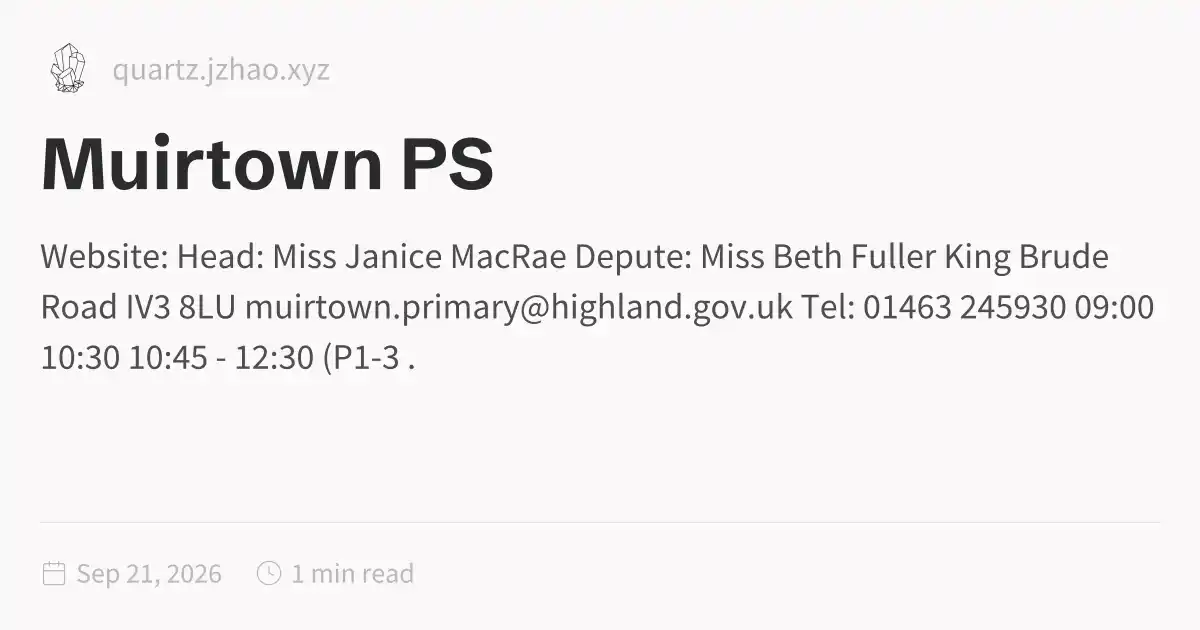
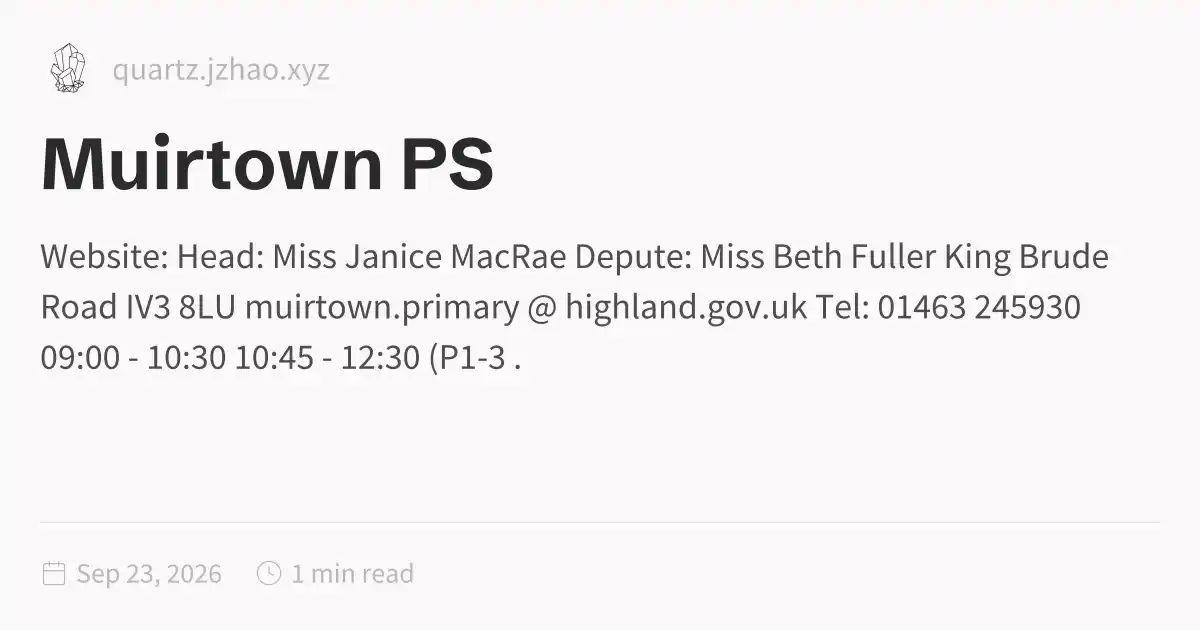
Add files via upload
23 Sep 2026

Changed region(s): [[0.4317, 0.4524, 0.9558, 0.5127], [0.0308, 0.5429, 0.4317, 0.6032]]

diff --git a/charleston-academy/muirtown-ps.html b/charleston-academy/muirtown-ps.html
@@ -1,9 +1,9 @@
 <!DOCTYPE html>
-<html lang="en" dir="ltr"><head><title>Muirtown PS</title><meta charset="utf-8"/><link rel="preload" href="../index.css" as="style"/><link rel="preload" href="../prescript.js" as="script"/><link rel="preconnect" href="https://fonts.googleapis.com"/><link rel="preconnect" href="https://fonts.gstatic.com"/><link rel="stylesheet" href="https://fonts.googleapis.com/css2?family=Schibsted Grotesk:wght@400;700&amp;family=Source Sans Pro:ital,wght@0,400;0,600;1,400;1,600&amp;family=IBM Plex Mono:wght@400;600&amp;display=swap"/><link rel="preconnect" href="https://cdnjs.cloudflare.com" crossorigin="anonymous"/><meta name="viewport" content="width=device-width, initial-scale=1.0"/><meta name="og:site_name" content="BikeMan.uk"/><meta property="og:title" content="Muirtown PS"/><meta property="og:type" content="website"/><meta name="twitter:card" content="summary_large_image"/><meta name="twitter:title" content="Muirtown PS"/><meta name="twitter:description" content="Website: Head: Miss Janice MacRae Depute: Miss Beth Fuller King Brude Road IV3 8LU muirtown.primary@highland.gov.uk Tel: 01463 245930 09:00 - 10:30 10:45 - 12:30 (P1-3 ."/><meta property="og:description" content="Website: Head: Miss Janice MacRae Depute: Miss Beth Fuller King Brude Road IV3 8LU muirtown.primary@highland.gov.uk Tel: 01463 245930 09:00 - 10:30 10:45 - 12:30 (P1-3 ."/><meta property="og:image:alt" content="Website: Head: Miss Janice MacRae Depute: Miss Beth Fuller King Brude Road IV3 8LU muirtown.primary@highland.gov.uk Tel: 01463 245930 09:00 - 10:30 10:45 - 12:30 (P1-3 ."/><meta property="twitter:domain" content="quartz.jzhao.xyz"/><meta property="og:url" content="https://quartz.jzhao.xyz/charleston-academy/muirtown-ps"/><meta property="twitter:url" content="https://quartz.jzhao.xyz/charleston-academy/muirtown-ps"/><link rel="icon" href="../static/icon.png"/><meta name="description" content="Website: Head: Miss Janice MacRae Depute: Miss Beth Fuller King Brude Road IV3 8LU muirtown.primary@highland.gov.uk Tel: 01463 245930 09:00 - 10:30 10:45 - 12:30 (P1-3 ."/><meta name="generator" content="Quartz"/><link href="../index.css" rel="stylesheet" type="text/css" data-persist="true"/><link href="../component-735924e0.css" rel="stylesheet" type="text/css" data-persist="true"/><link href="../component-589c1cea.css" rel="stylesheet" type="text/css" data-persist="true"/><link href="../component-bbc3f7c0.css" rel="stylesheet" type="text/css" data-persist="true"/><link href="../component-2911f5d1.css" rel="stylesheet" type="text/css" data-persist="true"/><link href="../component-e427079e.css" rel="stylesheet" type="text/css" data-persist="true"/><link href="../component-53b25b2b.css" rel="stylesheet" type="text/css" data-persist="true"/><link href="../component-c93c6a44.css" rel="stylesheet" type="text/css" data-persist="true"/><link href="../component-8a06014f.css" rel="stylesheet" type="text/css" data-persist="true"/><link href="../component-77d6a441.css" rel="stylesheet" type="text/css" data-persist="true"/><link href="../component-6ee21cee.css" rel="stylesheet" type="text/css" data-persist="true"/><link href="../component-1ea6ad18.css" rel="stylesheet" type="text/css" data-persist="true"/><link href="../component-788c9ca3.css" rel="stylesheet" type="text/css" data-persist="true"/><link href="../component-642859cd.css" rel="stylesheet" type="text/css" data-persist="true"/><link href="../component-4abc06bd.css" rel="stylesheet" type="text/css" data-persist="true"/><link href="../component-274a3dfe.css" rel="stylesheet" type="text/css" data-persist="true"/><link href="../component-94cb6c84.css" rel="stylesheet" type="text/css" data-persist="true"/><link href="../component-58d5ff56.css" rel="stylesheet" type="text/css" data-persist="true"/><link href="../component-7262b5a7.css" rel="stylesheet" type="text/css" data-persist="true"/><link href="../static/resource-style-a5c806d2.css" rel="stylesheet" type="text/css" data-persist="true"/><link href="../static/resource-style-6bd36952.css" rel="stylesheet" type="text/css" data-persist="true"/><link href="../static/resource-style-9857b007.css" rel="stylesheet" type="text/css" data-persist="true"/><link href="../static/resource-style-d3a1a224.css" rel="stylesheet" type="text/css" data-persist="true"/><link href="https://cdn.jsdelivr.net/npm/katex@0.16.11/dist/katex.min.css" rel="stylesheet" type="text/css" data-persist="true"/><script src="../prescript.js" type="application/javascript" data-persist="true"></script><script type="application/javascript" data-persist="true">const fetchData = fetch("../static/contentIndex.json").then(data => data.json())</script><link rel="preconnect" href="https://fonts.googleapis.com"/><link rel="preconnect" href="https://fonts.gstatic.com" crossorigin="anonymous"/><link rel="stylesheet" href="https://fonts.googleapis.com/css2?family=Schibsted%20Grotesk%3Awght%40400%3B700&amp;family=Source%20Sans%20Pro%3Aital%2Cwght%400%2C400%3B0%2C600%3B1%2C400%3B1%2C600&amp;family=IBM%20Plex%20Mono%3Awght%40400%3B600&amp;display=swap"/><meta property="og:image:width" content="1200"/><meta property="og:image:height" content="630"/><meta property="og:image" content="https://quartz.jzhao.xyz/charleston-academy/muirtown-ps-og-image.webp"/><meta property="og:image:url" content="https://quartz.jzhao.xyz/charleston-academy/muirtown-ps-og-image.webp"/><meta name="twitter:image" content="https://quartz.jzhao.xyz/charleston-academy/muirtown-ps-og-image.webp"/><meta property="og:image:type" content="image/webp"/></head><body data-slug="charleston-academy/muirtown-ps" data-basepath><div id="quartz-root" class="page" data-frame="default"><div id="quartz-body"><div class="left sidebar"><h2 class="page-title"><a href="..">BikeMan.uk</a></h2><div class="mobile-only"><div class="spacer"></div></div><div class="flex-component" style="flex-direction: row; flex-wrap: nowrap; gap: 0.5rem;"><div style="flex-grow: 1; flex-shrink: 1; flex-basis: auto; order: 0; align-self: center; justify-self: center;"><div class="search"><button class="search-button" aria-label="Search" aria-expanded="false"><svg role="img" xmlns="http://www.w3.org/2000/svg" viewBox="0 0 19.9 19.7"><title>Search</title><g class="search-path" fill="none"><path stroke-linecap="square" d="M18.5 18.3l-5.4-5.4"></path><circle cx="8" cy="8" r="7"></circle></g></svg><p>Search</p></button><div class="search-container"><div class="search-space"><input autocomplete="off" class="search-bar" name="search" type="text" aria-label="Search for something..." placeholder="Search for something..."/><div class="search-layout" data-preview="true" data-field-priority="[&quot;title&quot;,&quot;content&quot;,&quot;tags&quot;]"></div></div></div></div></div><div style="flex-grow: 0; flex-shrink: 1; flex-basis: auto; order: 0; align-self: center; justify-self: center;"><button class="darkmode" aria-label="Dark mode"><svg xmlns="http://www.w3.org/2000/svg" xmlns:xlink="http://www.w3.org/1999/xlink" version="1.1" class="dayIcon" x="0px" y="0px" viewBox="0 0 35 35" style="enable-background:new 0 0 35 35" xml:space="preserve" aria-label="Dark mode"><title>Dark mode</title><path d="M6,17.5C6,16.672,5.328,16,4.5,16h-3C0.672,16,0,16.672,0,17.5    S0.672,19,1.5,19h3C5.328,19,6,18.328,6,17.5z M7.5,26c-0.414,0-0.789,0.168-1.061,0.439l-2,2C4.168,28.711,4,29.086,4,29.5    C4,30.328,4.671,31,5.5,31c0.414,0,0.789-0.168,1.06-0.44l2-2C8.832,28.289,9,27.914,9,27.5C9,26.672,8.329,26,7.5,26z M17.5,6    C18.329,6,19,5.328,19,4.5v-3C19,0.672,18.329,0,17.5,0S16,0.672,16,1.5v3C16,5.328,16.671,6,17.5,6z M27.5,9    c0.414,0,0.789-0.168,1.06-0.439l2-2C30.832,6.289,31,5.914,31,5.5C31,4.672,30.329,4,29.5,4c-0.414,0-0.789,0.168-1.061,0.44    l-2,2C26.168,6.711,26,7.086,26,7.5C26,8.328,26.671,9,27.5,9z M6.439,8.561C6.711,8.832,7.086,9,7.5,9C8.328,9,9,8.328,9,7.5    c0-0.414-0.168-0.789-0.439-1.061l-2-2C6.289,4.168,5.914,4,5.5,4C4.672,4,4,4.672,4,5.5c0,0.414,0.168,0.789,0.439,1.06    L6.439,8.561z M33.5,16h-3c-0.828,0-1.5,0.672-1.5,1.5s0.672,1.5,1.5,1.5h3c0.828,0,1.5-0.672,1.5-1.5S34.328,16,33.5,16z     M28.561,26.439C28.289,26.168,27.914,26,27.5,26c-0.828,0-1.5,0.672-1.5,1.5c0,0.414,0.168,0.789,0.439,1.06l2,2    C28.711,30.832,29.086,31,29.5,31c0.828,0,1.5-0.672,1.5-1.5c0-0.414-0.168-0.789-0.439-1.061L28.561,26.439z M17.5,29    c-0.829,0-1.5,0.672-1.5,1.5v3c0,0.828,0.671,1.5,1.5,1.5s1.5-0.672,1.5-1.5v-3C19,29.672,18.329,29,17.5,29z M17.5,7    C11.71,7,7,11.71,7,17.5S11.71,28,17.5,28S28,23.29,28,17.5S23.29,7,17.5,7z M17.5,25c-4.136,0-7.5-3.364-7.5-7.5    c0-4.136,3.364-7.5,7.5-7.5c4.136,0,7.5,3.364,7.5,7.5C25,21.636,21.636,25,17.5,25z"></path></svg><svg xmlns="http://www.w3.org/2000/svg" xmlns:xlink="http://www.w3.org/1999/xlink" version="1.1" class="nightIcon" x="0px" y="0px" viewBox="0 0 100 100" style="enable-background:new 0 0 100 100" xml:space="preserve" aria-label="Light mode"><title>Light mode</title><path d="M96.76,66.458c-0.853-0.852-2.15-1.064-3.23-0.534c-6.063,2.991-12.858,4.571-19.655,4.571  C62.022,70.495,50.88,65.88,42.5,57.5C29.043,44.043,25.658,23.536,34.076,6.47c0.532-1.08,0.318-2.379-0.534-3.23  c-0.851-0.852-2.15-1.064-3.23-0.534c-4.918,2.427-9.375,5.619-13.246,9.491c-9.447,9.447-14.65,22.008-14.65,35.369  c0,13.36,5.203,25.921,14.65,35.368s22.008,14.65,35.368,14.65c13.361,0,25.921-5.203,35.369-14.65  c3.872-3.871,7.064-8.328,9.491-13.246C97.826,68.608,97.611,67.309,96.76,66.458z"></path></svg></button></div><div style="flex-grow: 0; flex-shrink: 1; flex-basis: auto; order: 0; align-self: center; justify-self: center;"><button class="readermode" aria-label="Reader mode"><svg xmlns="http://www.w3.org/2000/svg" xmlns:xlink="http://www.w3.org/1999/xlink" version="1.1" class="readerIcon" fill="currentColor" stroke="currentColor" stroke-width="0.2" stroke-linecap="round" stroke-linejoin="round" width="64px" height="64px" viewBox="0 0 24 24" aria-label="Reader mode"><title>Reader mode</title><g transform="translate(-1.8, -1.8) scale(1.15, 1.2)"><path d="M8.9891247,2.5 C10.1384702,2.5 11.2209868,2.96705384 12.0049645,3.76669482 C12.7883914,2.96705384 13.8709081,2.5 15.0202536,2.5 L18.7549359,2.5 C19.1691495,2.5 19.5049359,2.83578644 19.5049359,3.25 L19.5046891,4.004 L21.2546891,4.00457396 C21.6343849,4.00457396 21.9481801,4.28672784 21.9978425,4.6528034 L22.0046891,4.75457396 L22.0046891,20.25 C22.0046891,20.6296958 21.7225353,20.943491 21.3564597,20.9931534 L21.2546891,21 L2.75468914,21 C2.37499337,21 2.06119817,20.7178461 2.01153575,20.3517706 L2.00468914,20.25 L2.00468914,4.75457396 C2.00468914,4.37487819 2.28684302,4.061083 2.65291858,4.01142057 L2.75468914,4.00457396 L4.50368914,4.004 L4.50444233,3.25 C4.50444233,2.87030423 4.78659621,2.55650904 5.15267177,2.50684662 L5.25444233,2.5 L8.9891247,2.5 Z M4.50368914,5.504 L3.50468914,5.504 L3.50468914,19.5 L10.9478955,19.4998273 C10.4513189,18.9207296 9.73864328,18.5588115 8.96709342,18.5065584 L8.77307039,18.5 L5.25444233,18.5 C4.87474657,18.5 4.56095137,18.2178461 4.51128895,17.8517706 L4.50444233,17.75 L4.50368914,5.504 Z M19.5049359,17.75 C19.5049359,18.1642136 19.1691495,18.5 18.7549359,18.5 L15.2363079,18.5 C14.3910149,18.5 13.5994408,18.8724714 13.0614828,19.4998273 L20.5046891,19.5 L20.5046891,5.504 L19.5046891,5.504 L19.5049359,17.75 Z M18.0059359,3.999 L15.0202536,4 L14.8259077,4.00692283 C13.9889509,4.06666544 13.2254227,4.50975805 12.7549359,5.212 L12.7549359,17.777 L12.7782651,17.7601316 C13.4923805,17.2719483 14.3447024,17 15.2363079,17 L18.0059359,16.999 L18.0056891,4.798 L18.0033792,4.75457396 L18.0056891,4.71 L18.0059359,3.999 Z M8.9891247,4 L6.00368914,3.999 L6.00599909,4.75457396 L6.00599909,4.75457396 L6.00368914,4.783 L6.00368914,16.999 L8.77307039,17 C9.57551536,17 10.3461406,17.2202781 11.0128313,17.6202194 L11.2536891,17.776 L11.2536891,5.211 C10.8200889,4.56369974 10.1361548,4.13636104 9.37521067,4.02745763 L9.18347055,4.00692283 L8.9891247,4 Z"></path></g></svg></button></div></div><div class="explorer nav-files-container" data-behavior="link" data-collapsed="collapsed" data-savestate="true" data-data-fns="{&quot;order&quot;:[&quot;filter&quot;,&quot;map&quot;,&quot;sort&quot;],&quot;sortFn&quot;:&quot;(a2, b2) => {\n    if (!a2.isFolder &amp;&amp; !b2.isFolder || a2.isFolder &amp;&amp; b2.isFolder) {\n      return (a2.displayName || \&quot;\&quot;).localeCompare(b2.displayName || \&quot;\&quot;, void 0, {\n        numeric: true,\n        sensitivity: \&quot;base\&quot;\n      });\n    }\n    if (!a2.isFolder &amp;&amp; b2.isFolder) {\n      return 1;\n    }\n    return -1;\n  }&quot;,&quot;filterFn&quot;:&quot;(node) => node.slugSegment !== \&quot;tags\&quot;&quot;,&quot;mapFn&quot;:&quot;(node) => {\n    return node;\n  }&quot;}"><button type="button" class="explorer-toggle mobile-explorer hide-until-loaded" data-mobile="true" aria-controls="explorer-2" aria-label="Explorer"><svg xmlns="http://www.w3.org/2000/svg" width="24" height="24" viewBox="0 0 24 24" stroke-width="2" stroke-linecap="round" stroke-linejoin="round" class="lucide-menu"><line x1="4" x2="20" y1="12" y2="12"></line><line x1="4" x2="20" y1="6" y2="6"></line><line x1="4" x2="20" y1="18" y2="18"></line></svg></button><button type="button" class="title-button explorer-toggle desktop-explorer" data-mobile="false" aria-expanded="true"><h2>Explorer</h2><svg xmlns="http://www.w3.org/2000/svg" width="14" height="14" viewBox="5 8 14 8" fill="none" stroke="currentColor" stroke-width="2" stroke-linecap="round" stroke-linejoin="round" class="fold"><polyline points="6 9 12 15 18 9"></polyline></svg></button><div id="explorer-2" class="explorer-content" aria-expanded="false" role="group"><ul class="explorer-ul overflow" id="list-0"><li class="overflow-end"></li></ul></div><template id="template-file"><li><a href="#" class="nav-file-title tree-item-self"></a></li></template><template id="template-folder"><li><div class="folder-container nav-folder-title tree-item-self"><svg xmlns="http://www.w3.org/2000/svg" width="12" height="12" viewBox="5 8 14 8" fill="none" stroke="currentColor" stroke-width="2" stroke-linecap="round" stroke-linejoin="round" class="folder-icon nav-folder-collapse-indicator collapse-icon"><polyline points="6 9 12 15 18 9"></polyline></svg><div><button class="folder-button"><span class="folder-title"></span></button></div></div><div class="folder-outer"><ul class="content tree-item-children"></ul></div></li></template></div></div><div class="center"><div class="page-header"><div class="popover-hint"><nav class="breadcrumb-container" aria-label="breadcrumbs"><div class="breadcrumb-element"><a href="../">Home</a><p> ❯ </p></div><div class="breadcrumb-element"><a href="../charleston-academy/">Charleston Academy</a><p> ❯ </p></div><div class="breadcrumb-element"><a href>Muirtown PS</a></div></nav><h1 class="article-title">Muirtown PS</h1><p show-comma="true" class="content-meta"><time datetime="2026-09-20T23:48:09.485Z">Sep 21, 2026</time><span>1 min read</span></p></div></div><article class="popover-hint"><div class="markdown-preview-view markdown-rendered"><p><a href="https://sites.google.com/charlestonacademy.org.uk/muirtown-primary-school/home" class="external external-link">Website: <svg aria-hidden="true" class="external-icon" style="max-width:0.8em;max-height:0.8em;" viewBox="0 0 512 512"><path d="M320 0H288V64h32 82.7L201.4 265.4 178.7 288 224 333.3l22.6-22.6L448 109.3V192v32h64V192 32 0H480 320zM32 32H0V64 480v32H32 456h32V480 352 320H424v32 96H64V96h96 32V32H160 32z"></path></svg></a></p>
+<html lang="en" dir="ltr"><head><title>Muirtown PS</title><meta charset="utf-8"/><link rel="preload" href="../index.css" as="style"/><link rel="preload" href="../prescript.js" as="script"/><link rel="preconnect" href="https://fonts.googleapis.com"/><link rel="preconnect" href="https://fonts.gstatic.com"/><link rel="stylesheet" href="https://fonts.googleapis.com/css2?family=Schibsted Grotesk:wght@400;700&amp;family=Source Sans Pro:ital,wght@0,400;0,600;1,400;1,600&amp;family=IBM Plex Mono:wght@400;600&amp;display=swap"/><link rel="preconnect" href="https://cdnjs.cloudflare.com" crossorigin="anonymous"/><meta name="viewport" content="width=device-width, initial-scale=1.0"/><meta name="og:site_name" content="BikeMan.uk"/><meta property="og:title" content="Muirtown PS"/><meta property="og:type" content="website"/><meta name="twitter:card" content="summary_large_image"/><meta name="twitter:title" content="Muirtown PS"/><meta name="twitter:description" content="Website: Head: Miss Janice MacRae Depute: Miss Beth Fuller King Brude Road IV3 8LU muirtown.primary @ highland.gov.uk Tel: 01463 245930 09:00 - 10:30 10:45 - 12:30 (P1-3 ."/><meta property="og:description" content="Website: Head: Miss Janice MacRae Depute: Miss Beth Fuller King Brude Road IV3 8LU muirtown.primary @ highland.gov.uk Tel: 01463 245930 09:00 - 10:30 10:45 - 12:30 (P1-3 ."/><meta property="og:image:alt" content="Website: Head: Miss Janice MacRae Depute: Miss Beth Fuller King Brude Road IV3 8LU muirtown.primary @ highland.gov.uk Tel: 01463 245930 09:00 - 10:30 10:45 - 12:30 (P1-3 ."/><meta property="twitter:domain" content="quartz.jzhao.xyz"/><meta property="og:url" content="https://quartz.jzhao.xyz/charleston-academy/muirtown-ps"/><meta property="twitter:url" content="https://quartz.jzhao.xyz/charleston-academy/muirtown-ps"/><link rel="icon" href="../static/icon.png"/><meta name="description" content="Website: Head: Miss Janice MacRae Depute: Miss Beth Fuller King Brude Road IV3 8LU muirtown.primary @ highland.gov.uk Tel: 01463 245930 09:00 - 10:30 10:45 - 12:30 (P1-3 ."/><meta name="generator" content="Quartz"/><link href="../index.css" rel="stylesheet" type="text/css" data-persist="true"/><link href="../component-735924e0.css" rel="stylesheet" type="text/css" data-persist="true"/><link href="../component-589c1cea.css" rel="stylesheet" type="text/css" data-persist="true"/><link href="../component-bbc3f7c0.css" rel="stylesheet" type="text/css" data-persist="true"/><link href="../component-2911f5d1.css" rel="stylesheet" type="text/css" data-persist="true"/><link href="../component-e427079e.css" rel="stylesheet" type="text/css" data-persist="true"/><link href="../component-53b25b2b.css" rel="stylesheet" type="text/css" data-persist="true"/><link href="../component-c93c6a44.css" rel="stylesheet" type="text/css" data-persist="true"/><link href="../component-8a06014f.css" rel="stylesheet" type="text/css" data-persist="true"/><link href="../component-77d6a441.css" rel="stylesheet" type="text/css" data-persist="true"/><link href="../component-6ee21cee.css" rel="stylesheet" type="text/css" data-persist="true"/><link href="../component-1ea6ad18.css" rel="stylesheet" type="text/css" data-persist="true"/><link href="../component-788c9ca3.css" rel="stylesheet" type="text/css" data-persist="true"/><link href="../component-642859cd.css" rel="stylesheet" type="text/css" data-persist="true"/><link href="../component-4abc06bd.css" rel="stylesheet" type="text/css" data-persist="true"/><link href="../component-274a3dfe.css" rel="stylesheet" type="text/css" data-persist="true"/><link href="../component-94cb6c84.css" rel="stylesheet" type="text/css" data-persist="true"/><link href="../component-58d5ff56.css" rel="stylesheet" type="text/css" data-persist="true"/><link href="../component-7262b5a7.css" rel="stylesheet" type="text/css" data-persist="true"/><link href="../static/resource-style-a5c806d2.css" rel="stylesheet" type="text/css" data-persist="true"/><link href="../static/resource-style-6bd36952.css" rel="stylesheet" type="text/css" data-persist="true"/><link href="../static/resource-style-9857b007.css" rel="stylesheet" type="text/css" data-persist="true"/><link href="../static/resource-style-d3a1a224.css" rel="stylesheet" type="text/css" data-persist="true"/><link href="https://cdn.jsdelivr.net/npm/katex@0.16.11/dist/katex.min.css" rel="stylesheet" type="text/css" data-persist="true"/><script src="../prescript.js" type="application/javascript" data-persist="true"></script><script type="application/javascript" data-persist="true">const fetchData = fetch("../static/contentIndex.json").then(data => data.json())</script><link rel="preconnect" href="https://fonts.googleapis.com"/><link rel="preconnect" href="https://fonts.gstatic.com" crossorigin="anonymous"/><link rel="stylesheet" href="https://fonts.googleapis.com/css2?family=Schibsted%20Grotesk%3Awght%40400%3B700&amp;family=Source%20Sans%20Pro%3Aital%2Cwght%400%2C400%3B0%2C600%3B1%2C400%3B1%2C600&amp;family=IBM%20Plex%20Mono%3Awght%40400%3B600&amp;display=swap"/><meta property="og:image:width" content="1200"/><meta property="og:image:height" content="630"/><meta property="og:image" content="https://quartz.jzhao.xyz/charleston-academy/muirtown-ps-og-image.webp"/><meta property="og:image:url" content="https://quartz.jzhao.xyz/charleston-academy/muirtown-ps-og-image.webp"/><meta name="twitter:image" content="https://quartz.jzhao.xyz/charleston-academy/muirtown-ps-og-image.webp"/><meta property="og:image:type" content="image/webp"/></head><body data-slug="charleston-academy/muirtown-ps" data-basepath><div id="quartz-root" class="page" data-frame="default"><div id="quartz-body"><div class="left sidebar"><h2 class="page-title"><a href="..">BikeMan.uk</a></h2><div class="mobile-only"><div class="spacer"></div></div><div class="flex-component" style="flex-direction: row; flex-wrap: nowrap; gap: 0.5rem;"><div style="flex-grow: 1; flex-shrink: 1; flex-basis: auto; order: 0; align-self: center; justify-self: center;"><div class="search"><button class="search-button" aria-label="Search" aria-expanded="false"><svg role="img" xmlns="http://www.w3.org/2000/svg" viewBox="0 0 19.9 19.7"><title>Search</title><g class="search-path" fill="none"><path stroke-linecap="square" d="M18.5 18.3l-5.4-5.4"></path><circle cx="8" cy="8" r="7"></circle></g></svg><p>Search</p></button><div class="search-container"><div class="search-space"><input autocomplete="off" class="search-bar" name="search" type="text" aria-label="Search for something..." placeholder="Search for something..."/><div class="search-layout" data-preview="true" data-field-priority="[&quot;title&quot;,&quot;content&quot;,&quot;tags&quot;]"></div></div></div></div></div><div style="flex-grow: 0; flex-shrink: 1; flex-basis: auto; order: 0; align-self: center; justify-self: center;"><button class="darkmode" aria-label="Dark mode"><svg xmlns="http://www.w3.org/2000/svg" xmlns:xlink="http://www.w3.org/1999/xlink" version="1.1" class="dayIcon" x="0px" y="0px" viewBox="0 0 35 35" style="enable-background:new 0 0 35 35" xml:space="preserve" aria-label="Dark mode"><title>Dark mode</title><path d="M6,17.5C6,16.672,5.328,16,4.5,16h-3C0.672,16,0,16.672,0,17.5    S0.672,19,1.5,19h3C5.328,19,6,18.328,6,17.5z M7.5,26c-0.414,0-0.789,0.168-1.061,0.439l-2,2C4.168,28.711,4,29.086,4,29.5    C4,30.328,4.671,31,5.5,31c0.414,0,0.789-0.168,1.06-0.44l2-2C8.832,28.289,9,27.914,9,27.5C9,26.672,8.329,26,7.5,26z M17.5,6    C18.329,6,19,5.328,19,4.5v-3C19,0.672,18.329,0,17.5,0S16,0.672,16,1.5v3C16,5.328,16.671,6,17.5,6z M27.5,9    c0.414,0,0.789-0.168,1.06-0.439l2-2C30.832,6.289,31,5.914,31,5.5C31,4.672,30.329,4,29.5,4c-0.414,0-0.789,0.168-1.061,0.44    l-2,2C26.168,6.711,26,7.086,26,7.5C26,8.328,26.671,9,27.5,9z M6.439,8.561C6.711,8.832,7.086,9,7.5,9C8.328,9,9,8.328,9,7.5    c0-0.414-0.168-0.789-0.439-1.061l-2-2C6.289,4.168,5.914,4,5.5,4C4.672,4,4,4.672,4,5.5c0,0.414,0.168,0.789,0.439,1.06    L6.439,8.561z M33.5,16h-3c-0.828,0-1.5,0.672-1.5,1.5s0.672,1.5,1.5,1.5h3c0.828,0,1.5-0.672,1.5-1.5S34.328,16,33.5,16z     M28.561,26.439C28.289,26.168,27.914,26,27.5,26c-0.828,0-1.5,0.672-1.5,1.5c0,0.414,0.168,0.789,0.439,1.06l2,2    C28.711,30.832,29.086,31,29.5,31c0.828,0,1.5-0.672,1.5-1.5c0-0.414-0.168-0.789-0.439-1.061L28.561,26.439z M17.5,29    c-0.829,0-1.5,0.672-1.5,1.5v3c0,0.828,0.671,1.5,1.5,1.5s1.5-0.672,1.5-1.5v-3C19,29.672,18.329,29,17.5,29z M17.5,7    C11.71,7,7,11.71,7,17.5S11.71,28,17.5,28S28,23.29,28,17.5S23.29,7,17.5,7z M17.5,25c-4.136,0-7.5-3.364-7.5-7.5    c0-4.136,3.364-7.5,7.5-7.5c4.136,0,7.5,3.364,7.5,7.5C25,21.636,21.636,25,17.5,25z"></path></svg><svg xmlns="http://www.w3.org/2000/svg" xmlns:xlink="http://www.w3.org/1999/xlink" version="1.1" class="nightIcon" x="0px" y="0px" viewBox="0 0 100 100" style="enable-background:new 0 0 100 100" xml:space="preserve" aria-label="Light mode"><title>Light mode</title><path d="M96.76,66.458c-0.853-0.852-2.15-1.064-3.23-0.534c-6.063,2.991-12.858,4.571-19.655,4.571  C62.022,70.495,50.88,65.88,42.5,57.5C29.043,44.043,25.658,23.536,34.076,6.47c0.532-1.08,0.318-2.379-0.534-3.23  c-0.851-0.852-2.15-1.064-3.23-0.534c-4.918,2.427-9.375,5.619-13.246,9.491c-9.447,9.447-14.65,22.008-14.65,35.369  c0,13.36,5.203,25.921,14.65,35.368s22.008,14.65,35.368,14.65c13.361,0,25.921-5.203,35.369-14.65  c3.872-3.871,7.064-8.328,9.491-13.246C97.826,68.608,97.611,67.309,96.76,66.458z"></path></svg></button></div><div style="flex-grow: 0; flex-shrink: 1; flex-basis: auto; order: 0; align-self: center; justify-self: center;"><button class="readermode" aria-label="Reader mode"><svg xmlns="http://www.w3.org/2000/svg" xmlns:xlink="http://www.w3.org/1999/xlink" version="1.1" class="readerIcon" fill="currentColor" stroke="currentColor" stroke-width="0.2" stroke-linecap="round" stroke-linejoin="round" width="64px" height="64px" viewBox="0 0 24 24" aria-label="Reader mode"><title>Reader mode</title><g transform="translate(-1.8, -1.8) scale(1.15, 1.2)"><path d="M8.9891247,2.5 C10.1384702,2.5 11.2209868,2.96705384 12.0049645,3.76669482 C12.7883914,2.96705384 13.8709081,2.5 15.0202536,2.5 L18.7549359,2.5 C19.1691495,2.5 19.5049359,2.83578644 19.5049359,3.25 L19.5046891,4.004 L21.2546891,4.00457396 C21.6343849,4.00457396 21.9481801,4.28672784 21.9978425,4.6528034 L22.0046891,4.75457396 L22.0046891,20.25 C22.0046891,20.6296958 21.7225353,20.943491 21.3564597,20.9931534 L21.2546891,21 L2.75468914,21 C2.37499337,21 2.06119817,20.7178461 2.01153575,20.3517706 L2.00468914,20.25 L2.00468914,4.75457396 C2.00468914,4.37487819 2.28684302,4.061083 2.65291858,4.01142057 L2.75468914,4.00457396 L4.50368914,4.004 L4.50444233,3.25 C4.50444233,2.87030423 4.78659621,2.55650904 5.15267177,2.50684662 L5.25444233,2.5 L8.9891247,2.5 Z M4.50368914,5.504 L3.50468914,5.504 L3.50468914,19.5 L10.9478955,19.4998273 C10.4513189,18.9207296 9.73864328,18.5588115 8.96709342,18.5065584 L8.77307039,18.5 L5.25444233,18.5 C4.87474657,18.5 4.56095137,18.2178461 4.51128895,17.8517706 L4.50444233,17.75 L4.50368914,5.504 Z M19.5049359,17.75 C19.5049359,18.1642136 19.1691495,18.5 18.7549359,18.5 L15.2363079,18.5 C14.3910149,18.5 13.5994408,18.8724714 13.0614828,19.4998273 L20.5046891,19.5 L20.5046891,5.504 L19.5046891,5.504 L19.5049359,17.75 Z M18.0059359,3.999 L15.0202536,4 L14.8259077,4.00692283 C13.9889509,4.06666544 13.2254227,4.50975805 12.7549359,5.212 L12.7549359,17.777 L12.7782651,17.7601316 C13.4923805,17.2719483 14.3447024,17 15.2363079,17 L18.0059359,16.999 L18.0056891,4.798 L18.0033792,4.75457396 L18.0056891,4.71 L18.0059359,3.999 Z M8.9891247,4 L6.00368914,3.999 L6.00599909,4.75457396 L6.00599909,4.75457396 L6.00368914,4.783 L6.00368914,16.999 L8.77307039,17 C9.57551536,17 10.3461406,17.2202781 11.0128313,17.6202194 L11.2536891,17.776 L11.2536891,5.211 C10.8200889,4.56369974 10.1361548,4.13636104 9.37521067,4.02745763 L9.18347055,4.00692283 L8.9891247,4 Z"></path></g></svg></button></div></div><div class="explorer nav-files-container" data-behavior="link" data-collapsed="collapsed" data-savestate="true" data-data-fns="{&quot;order&quot;:[&quot;filter&quot;,&quot;map&quot;,&quot;sort&quot;],&quot;sortFn&quot;:&quot;(a2, b2) => {\n    if (!a2.isFolder &amp;&amp; !b2.isFolder || a2.isFolder &amp;&amp; b2.isFolder) {\n      return (a2.displayName || \&quot;\&quot;).localeCompare(b2.displayName || \&quot;\&quot;, void 0, {\n        numeric: true,\n        sensitivity: \&quot;base\&quot;\n      });\n    }\n    if (!a2.isFolder &amp;&amp; b2.isFolder) {\n      return 1;\n    }\n    return -1;\n  }&quot;,&quot;filterFn&quot;:&quot;(node) => node.slugSegment !== \&quot;tags\&quot;&quot;,&quot;mapFn&quot;:&quot;(node) => {\n    return node;\n  }&quot;}"><button type="button" class="explorer-toggle mobile-explorer hide-until-loaded" data-mobile="true" aria-controls="explorer-2" aria-label="Explorer"><svg xmlns="http://www.w3.org/2000/svg" width="24" height="24" viewBox="0 0 24 24" stroke-width="2" stroke-linecap="round" stroke-linejoin="round" class="lucide-menu"><line x1="4" x2="20" y1="12" y2="12"></line><line x1="4" x2="20" y1="6" y2="6"></line><line x1="4" x2="20" y1="18" y2="18"></line></svg></button><button type="button" class="title-button explorer-toggle desktop-explorer" data-mobile="false" aria-expanded="true"><h2>Explorer</h2><svg xmlns="http://www.w3.org/2000/svg" width="14" height="14" viewBox="5 8 14 8" fill="none" stroke="currentColor" stroke-width="2" stroke-linecap="round" stroke-linejoin="round" class="fold"><polyline points="6 9 12 15 18 9"></polyline></svg></button><div id="explorer-2" class="explorer-content" aria-expanded="false" role="group"><ul class="explorer-ul overflow" id="list-0"><li class="overflow-end"></li></ul></div><template id="template-file"><li><a href="#" class="nav-file-title tree-item-self"></a></li></template><template id="template-folder"><li><div class="folder-container nav-folder-title tree-item-self"><svg xmlns="http://www.w3.org/2000/svg" width="12" height="12" viewBox="5 8 14 8" fill="none" stroke="currentColor" stroke-width="2" stroke-linecap="round" stroke-linejoin="round" class="folder-icon nav-folder-collapse-indicator collapse-icon"><polyline points="6 9 12 15 18 9"></polyline></svg><div><button class="folder-button"><span class="folder-title"></span></button></div></div><div class="folder-outer"><ul class="content tree-item-children"></ul></div></li></template></div></div><div class="center"><div class="page-header"><div class="popover-hint"><nav class="breadcrumb-container" aria-label="breadcrumbs"><div class="breadcrumb-element"><a href="../">Home</a><p> ❯ </p></div><div class="breadcrumb-element"><a href="../charleston-academy/">Charleston Academy</a><p> ❯ </p></div><div class="breadcrumb-element"><a href>Muirtown PS</a></div></nav><h1 class="article-title">Muirtown PS</h1><p show-comma="true" class="content-meta"><time datetime="2026-09-23T09:32:57.781Z">Sep 23, 2026</time><span>1 min read</span></p></div></div><article class="popover-hint"><div class="markdown-preview-view markdown-rendered"><p><a href="https://sites.google.com/charlestonacademy.org.uk/muirtown-primary-school/home" class="external external-link">Website: <svg aria-hidden="true" class="external-icon" style="max-width:0.8em;max-height:0.8em;" viewBox="0 0 512 512"><path d="M320 0H288V64h32 82.7L201.4 265.4 178.7 288 224 333.3l22.6-22.6L448 109.3V192v32h64V192 32 0H480 320zM32 32H0V64 480v32H32 456h32V480 352 320H424v32 96H64V96h96 32V32H160 32z"></path></svg></a></p>
 <p>Head: Miss Janice MacRae<br/>
 Depute: Miss Beth Fuller</p>
 <p>King Brude Road   IV3 8LU</p>
-<p><a href="mailto:muirtown.primary@highland.gov.uk" class="external external-link">muirtown.primary@highland.gov.uk<svg aria-hidden="true" class="external-icon" style="max-width:0.8em;max-height:0.8em;" viewBox="0 0 512 512"><path d="M320 0H288V64h32 82.7L201.4 265.4 178.7 288 224 333.3l22.6-22.6L448 109.3V192v32h64V192 32 0H480 320zM32 32H0V64 480v32H32 456h32V480 352 320H424v32 96H64V96h96 32V32H160 32z"></path></svg></a></p>
+<p>muirtown.primary @ highland.gov.uk</p>
 <p>Tel: 01463 245930</p>
 <p>09:00 - 10:30<br/>
 10:45 - 12:30   (P1-3 .. -12:00)<br/>

diff --git a/charleston-academy/index.html b/charleston-academy/index.html
@@ -12,4 +12,4 @@ Unit 7 : 14:45 - 15:35</p>
 Mrs Anna Lound</p>
 <h3 id="active-schools-coordinator-high-life-highland">Active Schools Coordinator (High Life Highland)<a role="anchor" aria-hidden="true" tabindex="-1" data-no-popover="true" href="#active-schools-coordinator-high-life-highland" class="internal internal-link"><svg width="18" height="18" viewBox="0 0 24 24" fill="none" stroke="currentColor" stroke-width="2" stroke-linecap="round" stroke-linejoin="round"><path d="M10 13a5 5 0 0 0 7.54.54l3-3a5 5 0 0 0-7.07-7.07l-1.72 1.71"></path><path d="M14 11a5 5 0 0 0-7.54-.54l-3 3a5 5 0 0 0 7.07 7.07l1.71-1.71"></path></svg></a></h3>
 <p>Dagmar Barrowman<br/>
-Susan Blackwood</p></div></article><div class="page-listing"><p>2 items under this folder.</p><div><ul class="section-ul"><li class="section-li"><div class="section"><p class="meta"><time datetime="2026-09-20T23:56:30.424Z">Sep 21, 2026</time></p><div class="desc"><h3><a href="../charleston-academy/kinmylies-ps" class="internal">Kinmylies PS</a></h3></div><ul class="tags"></ul></div></li><li class="section-li"><div class="section"><p class="meta"><time datetime="2026-09-20T23:48:09.485Z">Sep 21, 2026</time></p><div class="desc"><h3><a href="../charleston-academy/muirtown-ps" class="internal">Muirtown PS</a></h3></div><ul class="tags"></ul></div></li></ul></div></div></div><hr/><div class="page-footer"></div></div><div class="right sidebar"></div><footer class><p>Created with <a href="https://quartz.jzhao.xyz/">Quartz v5.0.0</a> © 2026</p><ul><li><a href="https://github.com/jackyzha0/quartz">GitHub</a></li><li><a href="https://discord.gg/cRFFHYye7t">Discord Community</a></li></ul></footer></div></div></body><script src="../static/resource-after-e13fffa1.js" type="application/javascript" data-persist="true"></script><script src="../static/resource-after-8b336f9a.js" type="application/javascript" data-persist="true"></script><script src="../static/resource-after-baba652b.js" type="application/javascript" data-persist="true"></script><script src="../static/resource-after-5eb75950.js" type="module" data-persist="true"></script><script src="https://cdn.jsdelivr.net/npm/katex@0.16.11/dist/contrib/copy-tex.min.js" type="application/javascript" data-persist="true"></script><script src="../static/resource-after-683f275d.js" type="application/javascript" data-persist="true"></script><script src="../postscript.js" type="module" data-persist="true"></script></html>
+Susan Blackwood</p></div></article><div class="page-listing"><p>2 items under this folder.</p><div><ul class="section-ul"><li class="section-li"><div class="section"><p class="meta"><time datetime="2026-09-23T09:32:57.781Z">Sep 23, 2026</time></p><div class="desc"><h3><a href="../charleston-academy/muirtown-ps" class="internal">Muirtown PS</a></h3></div><ul class="tags"></ul></div></li><li class="section-li"><div class="section"><p class="meta"><time datetime="2026-09-20T23:56:30.424Z">Sep 21, 2026</time></p><div class="desc"><h3><a href="../charleston-academy/kinmylies-ps" class="internal">Kinmylies PS</a></h3></div><ul class="tags"></ul></div></li></ul></div></div></div><hr/><div class="page-footer"></div></div><div class="right sidebar"></div><footer class><p>Created with <a href="https://quartz.jzhao.xyz/">Quartz v5.0.0</a> © 2026</p><ul><li><a href="https://github.com/jackyzha0/quartz">GitHub</a></li><li><a href="https://discord.gg/cRFFHYye7t">Discord Community</a></li></ul></footer></div></div></body><script src="../static/resource-after-e13fffa1.js" type="application/javascript" data-persist="true"></script><script src="../static/resource-after-8b336f9a.js" type="application/javascript" data-persist="true"></script><script src="../static/resource-after-baba652b.js" type="application/javascript" data-persist="true"></script><script src="../static/resource-after-5eb75950.js" type="module" data-persist="true"></script><script src="https://cdn.jsdelivr.net/npm/katex@0.16.11/dist/contrib/copy-tex.min.js" type="application/javascript" data-persist="true"></script><script src="../static/resource-after-683f275d.js" type="application/javascript" data-persist="true"></script><script src="../postscript.js" type="module" data-persist="true"></script></html>
